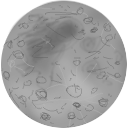
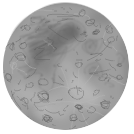
moon border

diff --git a/sprites.js b/sprites.js
@@ -168,7 +168,7 @@ let sprites = {
 
 "stone":{  "x": 96, "y": 588, "w": 32, "h": 32 },
 
-"baloon_0":{  "x": 803, "y": 156, "w": 64, "h": 64 },
+"baloon_0":{  "x": 807, "y": 156, "w": 64, "h": 64 },
 
 "ball_0":{  "x": 160, "y": 588, "w": 32, "h": 32 },
 
@@ -190,15 +190,15 @@ let sprites = {
 
 "human_r_1":{  "x": 448, "y": 588, "w": 32, "h": 32 },
 
-"net_left_01":{  "x": 867, "y": 156, "w": 64, "h": 64 },
+"net_left_01":{  "x": 871, "y": 156, "w": 64, "h": 64 },
 
-"net_right_01":{  "x": 931, "y": 156, "w": 64, "h": 64 },
+"net_right_01":{  "x": 935, "y": 156, "w": 64, "h": 64 },
 
 "cloud_0":{  "x": 0, "y": 0, "w": 228, "h": 221 },
 
 "cloud_1":{  "x": 382, "y": 156, "w": 159, "h": 136 },
 
-"cloud_2":{  "x": 671, "y": 156, "w": 132, "h": 110 },
+"cloud_2":{  "x": 675, "y": 156, "w": 132, "h": 110 },
 
 "cloud_3":{  "x": 228, "y": 0, "w": 154, "h": 179 },
 
@@ -216,7 +216,7 @@ let sprites = {
 
 "grass_3":{  "x": 382, "y": 0, "w": 580, "h": 156 },
 
-"moon":{  "x": 541, "y": 156, "w": 130, "h": 130 },
+"moon":{  "x": 541, "y": 156, "w": 134, "h": 134 },
 
 "chilli":{  "x": 928, "y": 588, "w": 32, "h": 32 },
 
